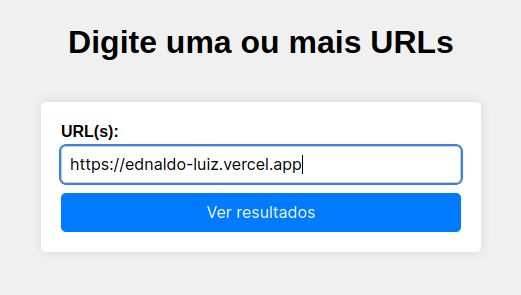
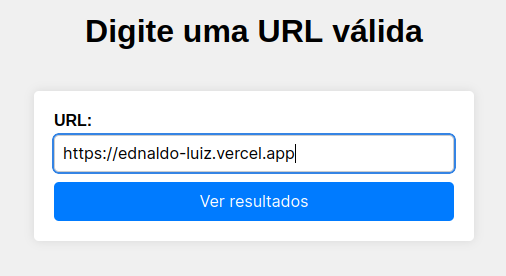
finalizando, ajustando as classes em services e melhorando o README

diff --git a/src/main/java/com/nuti/nuti/controller/TagInfoController.java b/src/main/java/com/nuti/nuti/controller/TagInfoController.java
@@ -1,8 +1,9 @@
 package com.nuti.nuti.controller;
 
-import org.jsoup.Jsoup;
-import org.jsoup.nodes.Document;
-import org.jsoup.nodes.Element;
+import com.nuti.nuti.model.Tags;
+import com.nuti.nuti.model.Urls;
+import com.nuti.nuti.service.HtmlParserService;
+import com.nuti.nuti.service.UrlValidator;
 import org.springframework.beans.factory.annotation.Autowired;
 import org.springframework.stereotype.Controller;
 import org.springframework.ui.Model;
@@ -10,34 +11,17 @@ import org.springframework.web.bind.annotation.GetMapping;
 import org.springframework.web.bind.annotation.PostMapping;
 import org.springframework.web.bind.annotation.RequestParam;
 
-import com.nuti.nuti.model.TagInfo;
-import com.nuti.nuti.model.UrlInfo;
-import com.nuti.nuti.repository.TagInfoRepository;
-import com.nuti.nuti.repository.UrlInfoRepository;
-
 import java.io.IOException;
-import java.util.ArrayList;
-import java.util.HashSet;
 import java.util.List;
 
 @Controller
 public class TagInfoController {
 
-    private boolean isValidURL(String url) {
-        try {
-            Document document = Jsoup.connect(url).get();
-            // Adicione aqui outras verificações se necessário.
-            return true; // Se a URL é válida e a página foi redirecionada para a página de resultado.
-        } catch (IOException e) {
-            return false; // Se ocorreu algum erro ou a página não foi redirecionada corretamente.
-        }
-    }
+    @Autowired
+    private UrlValidator validador;
 
     @Autowired
-    private UrlInfoRepository urlInfoRepository;
-
-    @Autowired
-    private TagInfoRepository tagInfoRepository;
+    private HtmlParserService parseador;
 
     @GetMapping("/")
     public String showForm() {
@@ -46,41 +30,14 @@ public class TagInfoController {
 
     @PostMapping("/")
     public String processUrl(@RequestParam("url") String url, Model model) throws IOException {
-        if (url == null || url.trim().isEmpty()) {
-            return "error"; 
-        }
-    
-        if (isValidURL(url.trim())) {
-            UrlInfo urlInfo = urlInfoRepository.findByUrl(url.trim());
-            if (urlInfo == null) {
-                urlInfo = new UrlInfo(url.trim());
-                urlInfoRepository.save(urlInfo);
-            }
-    
-            Document document = Jsoup.connect(url).get();
-            List<String> tags = new ArrayList<>();
-            for (Element e : document.getAllElements()) {
-                String tagName = e.tagName().toLowerCase();
-                if (!tagName.equals("#root")) {
-                    tags.add(tagName);
-                }
-            }
-            
-            List<TagInfo> tagInfoList = new ArrayList<>();
-            for (String tag : new HashSet<>(tags)) {
-                long count = tags.stream().filter(t -> t.equals(tag)).count();
-                tagInfoList.add(new TagInfo(tag, count, urlInfo));
-            }
-    
-            if (!tagInfoList.isEmpty()) {
-                tagInfoRepository.saveAll(tagInfoList);
-            }
-    
-            model.addAttribute("tagInfoList", tagInfoList);
-            model.addAttribute("url", url.trim());
-            return "result"; 
-        } else {
-            return "error"; // Redireciona para a página de erro se a URL não é válida.
-        }
+
+        Urls urlInfo = validador.validarESalvar(url);
+
+        List<Tags> tagList = parseador.buscarESalvar(url, urlInfo);
+
+        model.addAttribute("tagInfoList", tagList);
+        model.addAttribute("url", url.trim());
+
+        return "result"; // Redireciona para a página de resultado se a URL passar
     }
 }

diff --git a/src/main/java/com/nuti/nuti/service/HtmlParserService.java b/src/main/java/com/nuti/nuti/service/HtmlParserService.java
@@ -1,0 +1,52 @@
+package com.nuti.nuti.service;
+
+import com.nuti.nuti.model.Tags;
+import com.nuti.nuti.model.Urls;
+import com.nuti.nuti.repository.TagsRepository;
+import org.jsoup.Jsoup;
+import org.jsoup.nodes.Document;
+import org.springframework.beans.factory.annotation.Autowired;
+import org.springframework.stereotype.Service;
+
+import java.io.IOException;
+import java.util.List;
+import java.util.Map;
+import java.util.stream.Collectors;
+
+@Service
+public class HtmlParserService {
+
+    @Autowired
+    private TagsRepository tagInfoRepository;
+
+    public List<Tags> buscarESalvar(String url, Urls urlInfo) throws IOException {
+        // Pega a URL passada no html do formulario
+        Document documento = Jsoup.connect(url).get();
+
+        // Pega todas as tags da url passada, menos essa #root que estava vindo mas filtrei
+        List<String> tags = documento.getAllElements()
+                .stream()
+                .map(e -> e.tagName().toLowerCase())
+                .filter(tag -> !tag.equals("#root"))
+                .collect(Collectors.toList());
+
+        // Calcula a quantidade de cada tag
+        Map<String, Long> quantidadeTags = tags
+                .stream()
+                .collect(Collectors.groupingBy(tag -> tag, Collectors.counting()));
+
+        // Mapeia para um objeto de TagInfo, juntando as Tags e as Quantidades
+        List<Tags> tagsList = quantidadeTags
+                .entrySet()
+                .stream()
+                .map(entry -> new Tags(entry.getKey(), entry.getValue(), urlInfo))
+                .collect(Collectors.toList());
+
+        // Se for diferente de vazio, salve no banco de dados
+        if (!tagsList.isEmpty()) {
+            tagInfoRepository.saveAll(tagsList);
+        }
+
+        return tagsList;
+    }
+}

diff --git a/src/main/java/com/nuti/nuti/service/UrlValidator.java b/src/main/java/com/nuti/nuti/service/UrlValidator.java
@@ -1,0 +1,42 @@
+package com.nuti.nuti.service;
+
+import org.jsoup.Jsoup;
+import org.springframework.beans.factory.annotation.Autowired;
+import org.springframework.stereotype.Service;
+
+import com.nuti.nuti.model.Urls;
+import com.nuti.nuti.repository.UrlsRepository;
+
+import java.io.IOException;
+import java.net.MalformedURLException;
+
+@Service
+public class UrlValidator {
+
+    @Autowired
+    private UrlsRepository urlRepository;
+
+    public boolean validarUrl(String url) {
+        try {
+            Jsoup.connect(url).get();
+            return true; 
+        } catch (IOException e) {
+            return false;
+        }
+    }
+
+    public Urls validarESalvar(String url) throws MalformedURLException {
+        if (!validarUrl(url)) {
+            throw new MalformedURLException("URL inválida: " + url);
+        }
+
+        String urlVerificada = url.trim();
+        Urls urlInfo = urlRepository.findByUrl(urlVerificada);
+        if (urlInfo == null) {
+            urlInfo = new Urls(urlVerificada);
+            urlRepository.save(urlInfo);
+        }
+
+        return urlInfo;
+    }
+}

diff --git a/src/main/java/com/nuti/nuti/model/Urls.java b/src/main/java/com/nuti/nuti/model/Urls.java
@@ -4,7 +4,6 @@ import jakarta.persistence.Entity;
 import jakarta.persistence.GeneratedValue;
 import jakarta.persistence.GenerationType;
 import jakarta.persistence.Id;
-import jakarta.persistence.ManyToOne;
 import jakarta.persistence.Table;
 import lombok.AllArgsConstructor;
 import lombok.Getter;
@@ -13,22 +12,16 @@ import lombok.NoArgsConstructor;
 @AllArgsConstructor
 @NoArgsConstructor
 @Getter
-@Entity(name = "Tags")
-@Table(name = "tb_tags")
-public class TagInfo {
+@Entity(name = "Urls")
+@Table(name = "tb_urls")
+public class Urls {
 
     @Id
     @GeneratedValue(strategy = GenerationType.IDENTITY)
     private Long id;
-    private String tag;
-    private Long quantidade;
+    private String url;
 
-    @ManyToOne
-    private UrlInfo urlInfo;
-
-    public TagInfo(String tag, long qtd, UrlInfo url) {
-        this.tag = tag;
-        this.quantidade =  qtd;
-        this.urlInfo = url;
+    public Urls(String url) {
+        this.url = url;
     }
 }

diff --git a/src/main/java/com/nuti/nuti/model/Tags.java b/src/main/java/com/nuti/nuti/model/Tags.java
@@ -4,6 +4,7 @@ import jakarta.persistence.Entity;
 import jakarta.persistence.GeneratedValue;
 import jakarta.persistence.GenerationType;
 import jakarta.persistence.Id;
+import jakarta.persistence.ManyToOne;
 import jakarta.persistence.Table;
 import lombok.AllArgsConstructor;
 import lombok.Getter;
@@ -12,16 +13,22 @@ import lombok.NoArgsConstructor;
 @AllArgsConstructor
 @NoArgsConstructor
 @Getter
-@Entity(name = "Urls")
-@Table(name = "tb_urls")
-public class UrlInfo {
+@Entity(name = "Tags")
+@Table(name = "tb_tags")
+public class Tags {
 
     @Id
     @GeneratedValue(strategy = GenerationType.IDENTITY)
     private Long id;
-    private String url;
+    private String tag;
+    private Long quantidade;
 
-    public UrlInfo(String url) {
-        this.url = url;
+    @ManyToOne
+    private Urls urlInfo;
+
+    public Tags(String tag, long qtd, Urls url) {
+        this.tag = tag;
+        this.quantidade =  qtd;
+        this.urlInfo = url;
     }
 }

diff --git a/src/main/java/com/nuti/nuti/config/GlobalExceptionHandler.java b/src/main/java/com/nuti/nuti/config/GlobalExceptionHandler.java
@@ -1,0 +1,22 @@
+package com.nuti.nuti.config;
+
+import java.io.IOException;
+import java.net.MalformedURLException;
+
+import org.springframework.ui.Model;
+import org.springframework.web.bind.annotation.ControllerAdvice;
+import org.springframework.web.bind.annotation.ExceptionHandler;
+
+@ControllerAdvice
+public class GlobalExceptionHandler {
+
+    @ExceptionHandler(MalformedURLException.class)
+    public String urlInvalida(MalformedURLException ex, Model model) {
+        return "error";
+    }
+
+    @ExceptionHandler(IOException.class)
+    public String getIOException(IOException ex, Model model) {
+        return "error"; 
+    }
+}

diff --git a/src/main/java/com/nuti/nuti/repository/UrlsRepository.java b/src/main/java/com/nuti/nuti/repository/UrlsRepository.java
@@ -1,0 +1,7 @@
+package com.nuti.nuti.repository;
+
+import org.springframework.data.jpa.repository.JpaRepository;
+
+import com.nuti.nuti.model.Urls;
+
+public interface UrlsRepository extends JpaRepository<Urls, Long> { Urls findByUrl(String url); }

diff --git a/src/main/java/com/nuti/nuti/repository/TagsRepository.java b/src/main/java/com/nuti/nuti/repository/TagsRepository.java
@@ -1,0 +1,7 @@
+package com.nuti.nuti.repository;
+
+import org.springframework.data.jpa.repository.JpaRepository;
+
+import com.nuti.nuti.model.Tags;
+
+public interface TagsRepository extends JpaRepository<Tags, Long> {}

diff --git a/README.md b/README.md
@@ -14,17 +14,52 @@
     <img width="90%" src="src/main/resources/imgs/form.png">
 </div>
 
+<h3>URL passada incorretamente</h3>
+
+<div align="center">
+    <img width="90%" src="src/main/resources/imgs/erro.png">
+</div>
+
 <h3>Tabela de resultados</h3>
 
 <div align="center">
     <img width="90%" src="src/main/resources/imgs/resultado.png">
 </div>
 
-<h2>Tabelas SQL e consultas:</h2>
-<p> os arquivos SQL presentes no projeto, podem ser encontrados em src/main/resources/db/migration/</p>
+<h2>Código MySQL:</h2>
+<h3>Tabelas</h3>
+<p> os arquivos das tabelas SQL presentes no projeto, podem ser encontrados em src/main/resources/db/migration/</p>
 
 <div align="center">
     <img width="90%" src="src/main/resources/imgs/tables.png">
+</div>
+
+<h3>Consultas</h3>
+<p>consulta que retorna todas as tags e suas quantidades econtradas que foram salvas na pesquiva de acordo com a url informada</p>
+
+<div align="center">
+    <img width="90%" src="src/main/resources/imgs/select2.png">
+</div>
+
+<h2>Código Java:</h2>
+<h3>Salvar no banco de dados</h3>
+<p>verificar se a URL esta sendo valida, remover os espaços em branco, e caso ela não esteja presente no banco de dados, salvar</p>
+
+<div align="center">
+    <img width="90%" src="src/main/resources/imgs/salvar.png">
+</div>
+
+<h2>Tabelas hospedadas na nuvem da Railway</h2>
+<h3>Tabela de URLs</h3>
+
+<div align="center">
+    <img width="90%" src="src/main/resources/imgs/tb_urls.png">
+</div>
+
+<h3>Tabela de Tags e suas quantidades</h3>
+
+<div align="center">
+    <img width="90%" src="src/main/resources/imgs/tb_tags.png">
 </div>
 
 <h2>Principais Bibliotecas para a Solução:</h2>
